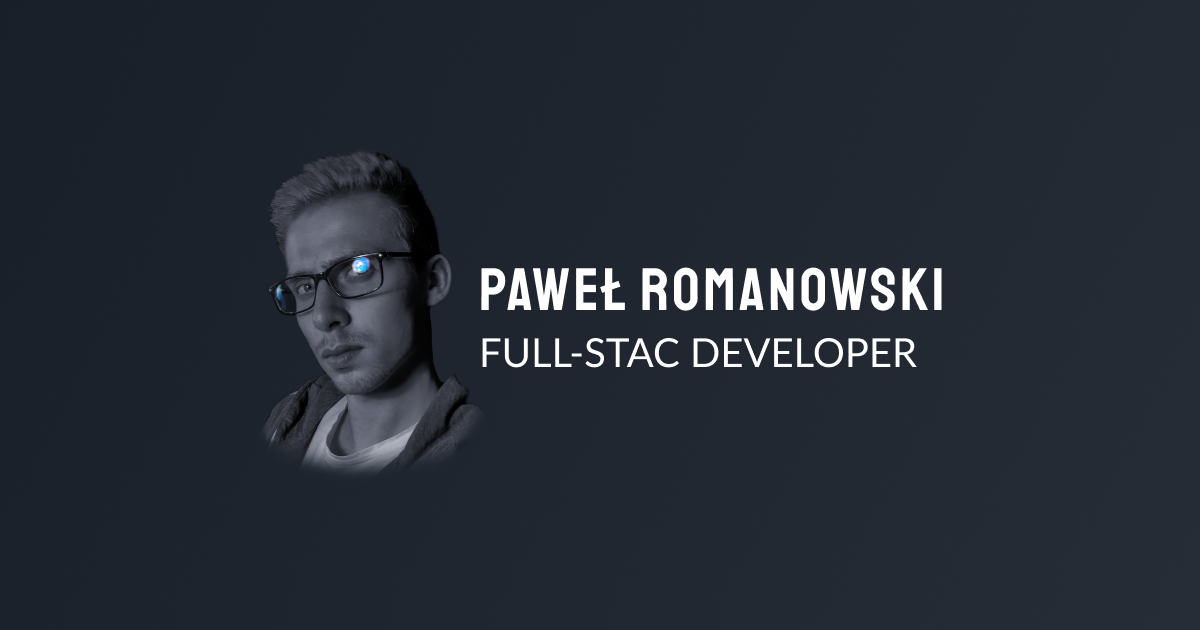
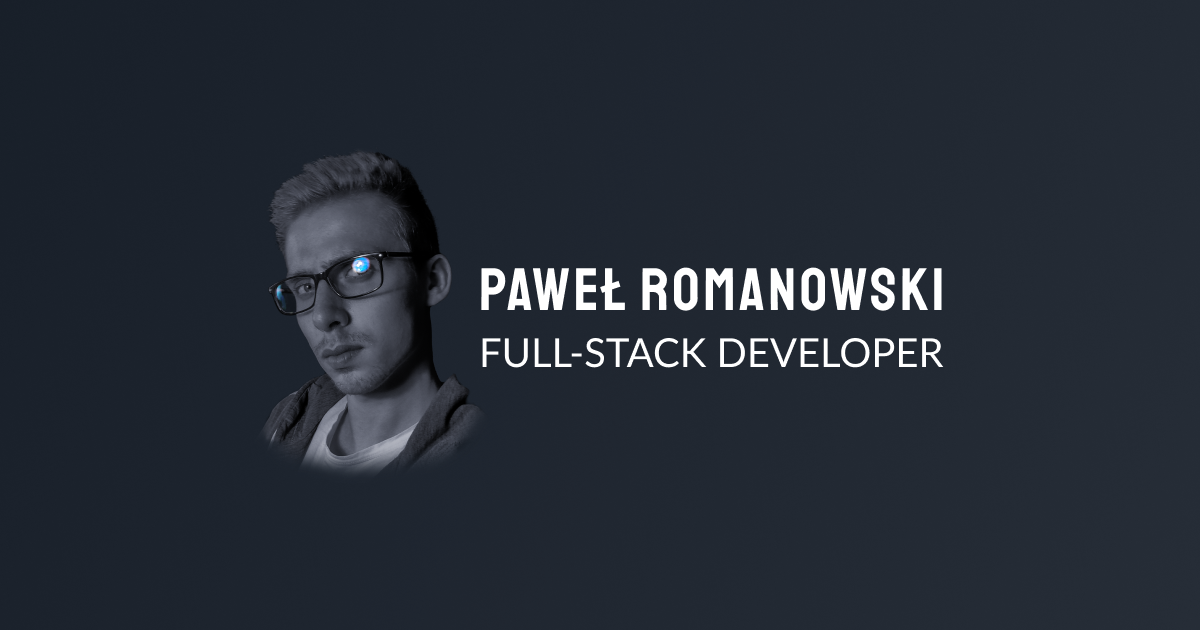
fix misspellings

Changed region(s): [[0.555, 0.5127, 0.8017, 0.6032]]

diff --git a/components/section/AboutMe.vue b/components/section/AboutMe.vue
@@ -39,7 +39,7 @@ const localePath = useLocalePath()
       "quote": "If you are looking for a specialist to create a modern website, then you must see my portfolio!",
       "description": [
         "I am a programmer with 4 years of experience in creating web and desktop applications.",
-        "I specialize in technologies such as Vue.js, TypeScrip, Node Js, Directus, Laravel",
+        "I specialize in technologies such as Vue.js, TypeScript, Node Js, Directus, Laravel",
         "I had the opportunity to create and collaborate with many companies and institutions, which gave me the opportunity to work on both public and internal projects.",
         "My second passion, besides programming, is psychology, which helps me to better communicate with my clients and colleagues."
       ],
@@ -51,7 +51,7 @@ const localePath = useLocalePath()
       "quote": "Jeśli szukasz specjalisty do stworzenia nowoczesnej strony internetowej, to koniecznie musisz zobaczyć moje portfolio!",
       "description": [
         "Jestem programista z 4-letnim doświadczeniem w tworzeniu aplikacji webowych i desktopowych.",
-        "Specjalizuję się w technologiach takich jak Vue.js, TypeScrip, Node Js, Directus, Laravel",
+        "Specjalizuję się w technologiach takich jak Vue.js, TypeScript, Node Js, Directus, Laravel",
         "Miałem okazję tworzyć i współpracować z wieloma firmami i instytucjami, co dało mi możliwość pracy zarówno w różnych projektach publicznych, jak i wewnętrznych.",
         "Moją drugą pasją, obok programowania, jest psychologia, która pomaga mi lepiej komunikować się z moimi klientami i współpracownikami."
       ],
